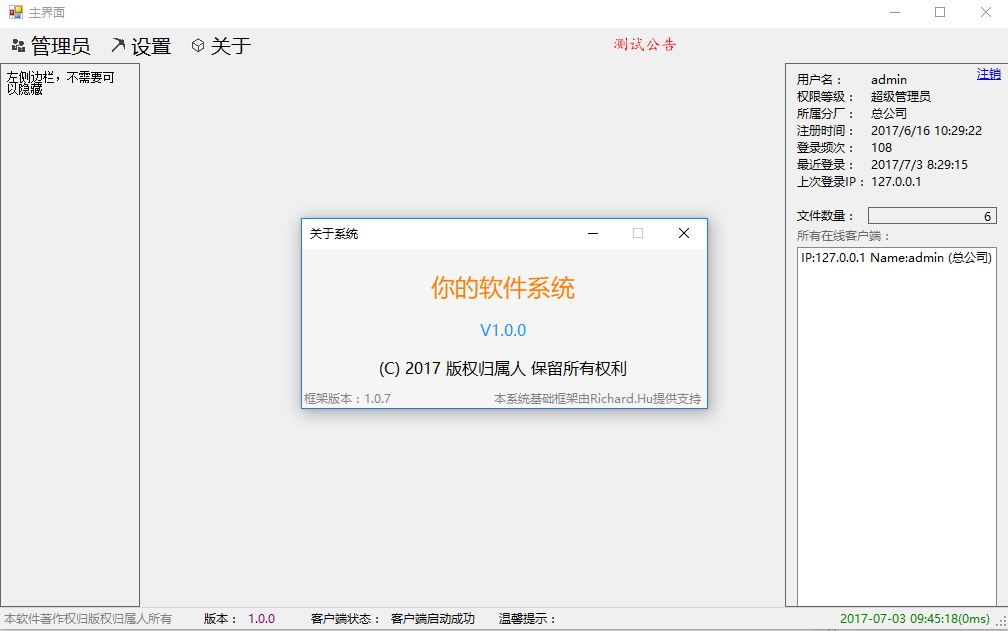
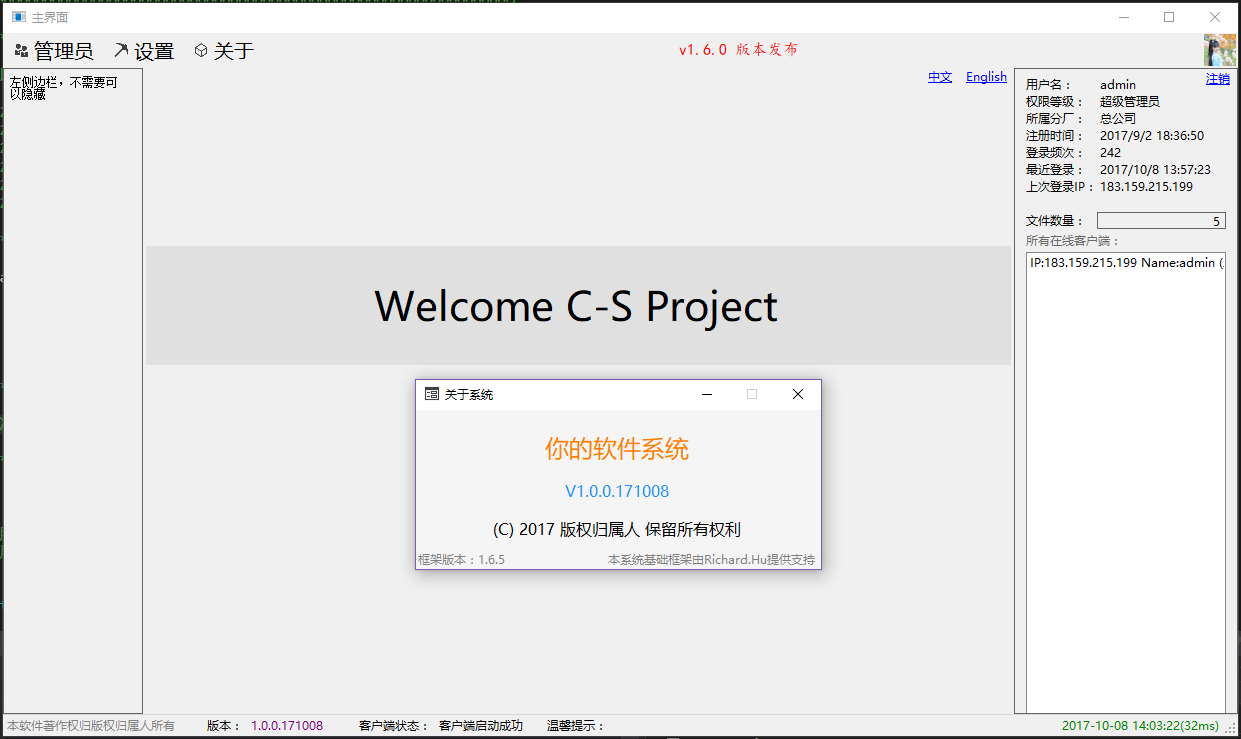
更新readme.md，适配我的信息的中英文，v1.6.5

Changed region(s): [[0.0, 0.0, 1.0, 1.0], [0.2768, 0.3312, 0.7073, 0.7829], [0.5536, 0.0602, 0.6766, 0.0903]]

diff --git a/ClientsLibrary/AccountSupport/FormAccountDetails.cs b/ClientsLibrary/AccountSupport/FormAccountDetails.cs
@@ -92,6 +92,14 @@ namespace ClientsLibrary
             label9.Text = UserLocalization.Localization.AccountLastLoginIpAddress + "：";
             label10.Text = UserLocalization.Localization.AccountLastLoginWay + "：";
             label11.Text = UserLocalization.Localization.AccountLoginFailedCount + "：";
+            userButton_upload.UIText = UserLocalization.Localization.ButtonUpload;
+            userButton_download.UIText = UserLocalization.Localization.ButtonDownload;
+            userButton_delete.UIText = UserLocalization.Localization.ButtonDelete;
+
+            groupBox2.Text = UserLocalization.Localization.FileMyListTitle;
+            label_fileName.Text = UserLocalization.Localization.FileName + "：";
+            label_fileSize.Text = UserLocalization.Localization.FileSize + "：";
+            label_uploadTime.Text = UserLocalization.Localization.FileUploadTime + "：";
         }
 
 
@@ -148,7 +156,7 @@ namespace ClientsLibrary
 
         public void DownloadUserFileNames()
         {
-            treeView1.Nodes[0].Text = "我的云端文件（下载中）";
+            treeView1.Nodes[0].Text = UserLocalization.Localization.FileDownloading;
             treeView1.Nodes[0].Nodes.Clear();
             treeView1.Refresh();
 
@@ -168,16 +176,16 @@ namespace ClientsLibrary
                         treeView1.Nodes[0].Nodes.Add(node);
                     }
 
-                    treeView1.Nodes[0].Text = "我的云端文件（" + files.Length + "）";
+                    treeView1.Nodes[0].Text = UserLocalization.Localization.FileMy + "（" + files.Length + "）";
                 }
                 else
                 {
-                    treeView1.Nodes[0].Text = "我的云端文件（NULL）";
+                    treeView1.Nodes[0].Text = UserLocalization.Localization.FileMy + "（NULL）";
                 }
             }
             else
             {
-                treeView1.Nodes[0].Text = "我的云端文件（下载失败）";
+                treeView1.Nodes[0].Text = UserLocalization.Localization + "（下载失败）";
             }
 
             treeView1.ExpandAll();

diff --git a/CommonLibrary/LocalizationSupport/ChineseLocalization.cs b/CommonLibrary/LocalizationSupport/ChineseLocalization.cs
@@ -32,6 +32,17 @@ namespace CommonLibrary
 
         #endregion
 
+        #region 文件相关
+
+        public string FileName { get; set; } = "文件名";
+        public string FileSize { get; set; } = "文件大小";
+        public string FileUploadTime { get; set; } = "上传时间";
+        public string FileDownloading { get; set; } = "我的云端文件（下载中）";
+        public string FileMy { get; set; } = "我的云端文件";
+        public string FileMyListTitle { get; set; } = "个人文件，支持拖拽上传，双击下载";
+
+        #endregion
+
         #region 按钮相关
 
         /// <summary>
@@ -58,6 +69,14 @@ namespace CommonLibrary
         /// 取消
         /// </summary>
         public string ButtonCancel { get; set; } = "取消";
+        /// <summary>
+        /// 上传
+        /// </summary>
+        public string ButtonUpload { get; set; } = "上传";
+        /// <summary>
+        /// 下载
+        /// </summary>
+        public string ButtonDownload { get; set; } = "下载";
         /// <summary>
         /// 删除选中项
         /// </summary>

diff --git a/CommonLibrary/LocalizationSupport/EnglishLocalization.cs b/CommonLibrary/LocalizationSupport/EnglishLocalization.cs
@@ -31,6 +31,19 @@ namespace CommonLibrary
 
         #endregion
 
+
+
+        #region 文件相关
+
+        public string FileName { get; set; } = "Name";
+        public string FileSize { get; set; } = "Size";
+        public string FileUploadTime { get; set; } = "Time";
+        public string FileDownloading { get; set; } = "My Cloud Files（downloading）";
+        public string FileMy { get; set; } = "My Cloud Files";
+        public string FileMyListTitle { get; set; } = "Personal files,drag to upload";
+
+        #endregion
+
         #region 按钮相关
 
         /// <summary>
@@ -57,6 +70,14 @@ namespace CommonLibrary
         /// 取消
         /// </summary>
         public string ButtonCancel { get; set; } = "Cancel";
+        /// <summary>
+        /// 上传
+        /// </summary>
+        public string ButtonUpload { get; set; } = "Upload";
+        /// <summary>
+        /// 下载
+        /// </summary>
+        public string ButtonDownload { get; set; } = "Download";
         /// <summary>
         /// 删除选中项
         /// </summary>

diff --git a/CommonLibrary/LocalizationSupport/Localization.cs b/CommonLibrary/LocalizationSupport/Localization.cs
@@ -101,6 +101,17 @@ namespace CommonLibrary
 
         #endregion
 
+        #region 文件相关
+
+        string FileName { get; set; }
+        string FileSize { get; set; }
+        string FileUploadTime { get; set; }
+        string FileDownloading { get; set; }
+        string FileMy { get; set; }
+        string FileMyListTitle { get; set; }
+
+        #endregion
+
         #region 按钮相关
 
         /// <summary>
@@ -127,6 +138,14 @@ namespace CommonLibrary
         /// 取消
         /// </summary>
         string ButtonCancel { get; set; }
+        /// <summary>
+        /// 上传
+        /// </summary>
+        string ButtonUpload { get; set; }
+        /// <summary>
+        /// 下载
+        /// </summary>
+        string ButtonDownload { get; set; }
         /// <summary>
         /// 删除选中项
         /// </summary>

diff --git a/ClientsLibrary/UserClient.cs b/ClientsLibrary/UserClient.cs
@@ -36,7 +36,7 @@ namespace ClientsLibrary
         /// <summary>
         /// 本软件的当前版本，用来验证更新的关键依据
         /// </summary>
-        public static SystemVersion CurrentVersion { get; } = new SystemVersion("1.0.0.171007");
+        public static SystemVersion CurrentVersion { get; } = new SystemVersion("1.0.0.171008");
 
 
         /// <summary>

diff --git a/CommonLibrary/ProtocolSupport/CommonProtocol.cs b/CommonLibrary/ProtocolSupport/CommonProtocol.cs
@@ -45,7 +45,7 @@ namespace CommonLibrary
              * 
              **************************************************************************/
 
-            SoftBasic.FrameworkVersion = new SystemVersion("1.6.4");
+            SoftBasic.FrameworkVersion = new SystemVersion("1.6.5");
 
         }
 

diff --git a/README.md b/README.md
@@ -247,6 +247,11 @@ using HslCommunication;
 ###### 统一的系统配置界面，门牌为【管理员】-【系统配置】
 
 ![](https://github.com/dathlin/ClientServerProject/raw/master/软件系统客户端模版/screenshots/client17.png)
+
+##### 中英文双语支持，目前仅先适配我的信息和系统配置界面
+
+![](https://github.com/dathlin/ClientServerProject/raw/master/软件系统客户端模版/screenshots/client18.png)
+
 <br />
 
 
